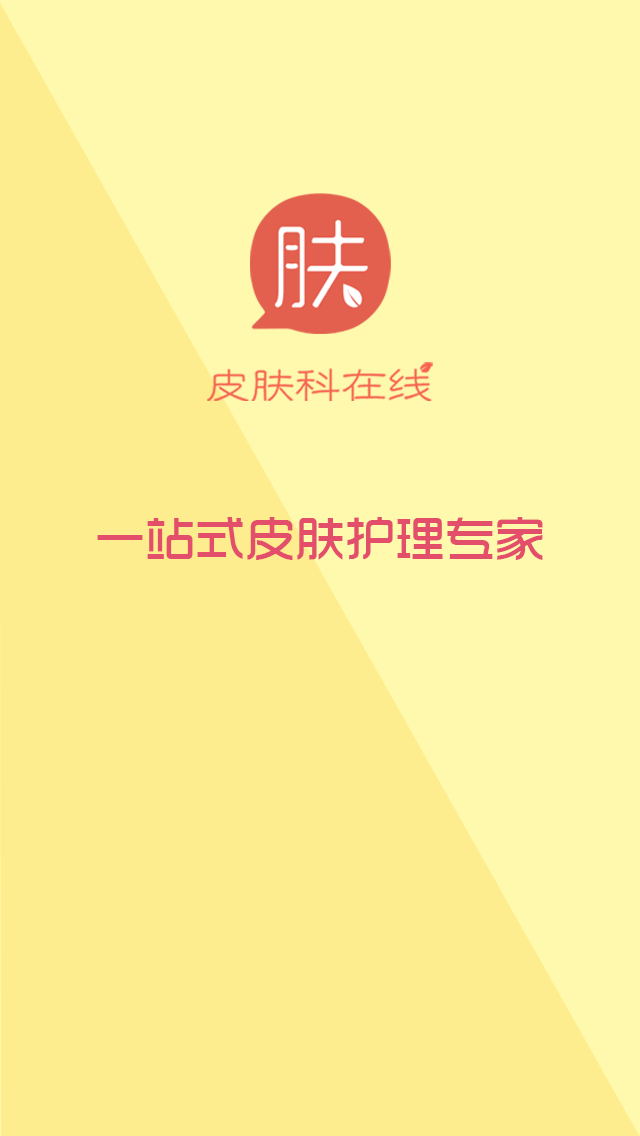
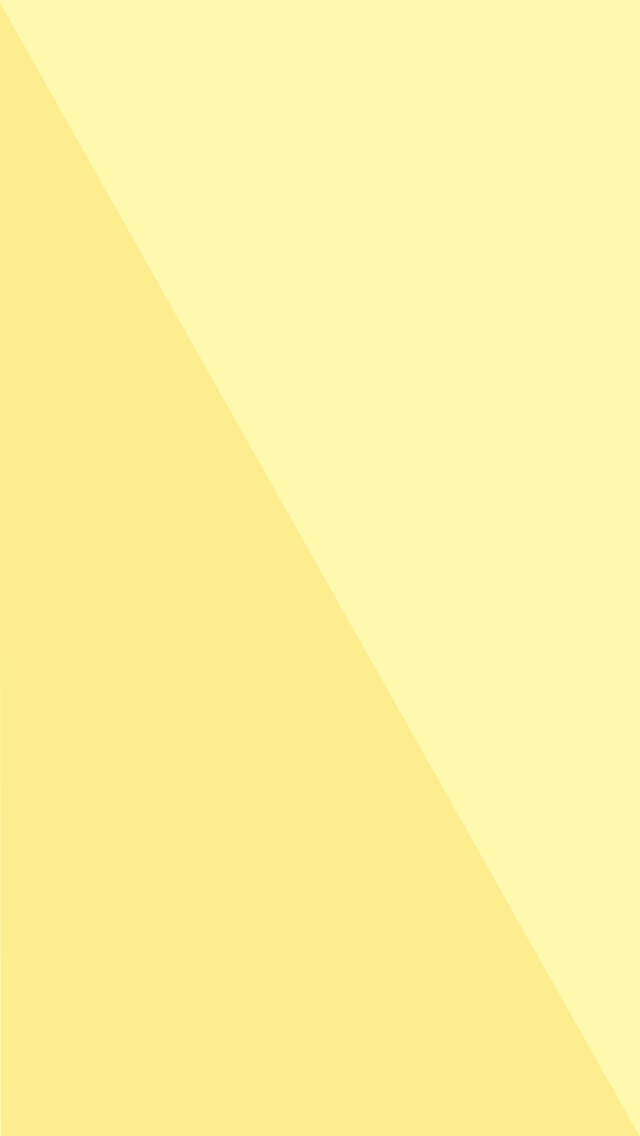
Add five page and layout

Changed region(s): [[0.3125, 0.154, 0.6875, 0.3697], [0.1562, 0.4313, 0.8438, 0.493]]

diff --git a/js/index.js b/js/index.js
@@ -10,11 +10,35 @@
 
         ANIMATION_END_EVENT = "oanimationend animationend webkitAnimationEnd";
 
-    var currentIndex = 0;
+    var CONFIG_INDEX = 'index',
+        CONFIG_LOCATION = 'location';
+
+    var currentIndex = 0,
+        isAnimating = false;
+
     var initPage = function (config) {
-        var self = $('#page-' + config.index);
+        var pageId = '#page-' + config[CONFIG_INDEX];
+        var self = $(pageId);
 
         self.config = config || {};
+
+        // compute logo's location
+        var logoCount = self.config[CONFIG_LOCATION].length / 3, i, logo;
+        var rawRatio, wRatio, topRatio;
+        for (i = 0; i < logoCount; i++) {
+            logo = $(pageId + '-logo' + i);
+
+            rawRatio = self.config[CONFIG_LOCATION][3 * i]; // 图片 w/h
+            wRatio = self.config[CONFIG_LOCATION][3 * i + 1]; // 图片 w/W
+            topRatio = self.config[CONFIG_LOCATION][3 * i + 2]; // 图片 top/H
+            logo.css({
+                width: wRatio * 100 + '%',
+                height: WIDTH / HEIGHT * wRatio / rawRatio * 100 + '%',
+                top: topRatio * 100 + '%',
+                left: (1 - wRatio) / 2 * 100 + '%'
+            });
+        }
+
         return self;
     }
 
@@ -27,55 +51,82 @@
             height: HEIGHT
         });
 
-        for (var i = 0; i < 3; ++i) {
-            initPage({
-                'index': i
-            });
+        var configs = [
+            {
+                index: 0,
+                location: [1.08, 0.36, 0.18, 10.372, 0.73, 0.52]
+            },
+            {
+                index: 1,
+                location: []
+            },
+            {
+                index: 2,
+                location: []
+            },
+            {
+                index: 3,
+                location: []
+            },
+            {
+                index: 4,
+                location: []
+            }
+        ];
+
+        for (var i = 0; i < configs.length; ++i) {
+            initPage(configs[i]);
         }
 
         $('#page-' + currentIndex).addClass('current');
 
         window.pageUp = function () {
-            if (currentIndex >= pageLengh - 1) {
+            if (currentIndex >= pageLengh - 1 || isAnimating) {
                 return;
             }
 
             var currentPage = $('#page-' + currentIndex);
             var nextPage = $('#page-' + (currentIndex + 1));
 
+            isAnimating = true;
             currentPage.addClass('pt-page-scaleOutUp');
+            currentPage.removeClass('top');
             currentPage.bind(ANIMATION_END_EVENT, function () {
                 currentPage.removeClass('current pt-page-scaleOutUp');
                 currentPage.unbind(ANIMATION_END_EVENT);
             });
 
-            nextPage.addClass('current pt-page-moveInDown');
+            nextPage.addClass('current pt-page-moveInDown top');
             nextPage.bind(ANIMATION_END_EVENT, function () {
                 nextPage.removeClass('pt-page-moveInDown');
                 nextPage.unbind(ANIMATION_END_EVENT);
+                isAnimating = false;
             });
 
             currentIndex++;
         }
 
         window.pageDown = function () {
-            if (currentIndex <= 0) {
+            if (currentIndex <= 0 || isAnimating) {
                 return;
             }
 
             var currentPage = $('#page-' + currentIndex);
             var prevPage = $('#page-' + (currentIndex - 1));
 
+            isAnimating = true;
             currentPage.addClass('pt-page-scaleOutUp');
+            currentPage.removeClass('top');
             currentPage.bind(ANIMATION_END_EVENT, function () {
                 currentPage.removeClass('current pt-page-scaleOutUp');
                 currentPage.unbind(ANIMATION_END_EVENT);
             });
 
-            prevPage.addClass('current pt-page-moveInUp');
+            prevPage.addClass('current pt-page-moveInUp top');
             prevPage.bind(ANIMATION_END_EVENT, function () {
                 prevPage.removeClass('pt-page-moveInUp');
                 prevPage.unbind(ANIMATION_END_EVENT);
+                isAnimating = false;
             });
 
 

diff --git a/index.html b/index.html
@@ -2,7 +2,7 @@
 <html>
 <head lang="en">
     <meta charset="UTF-8">
-    <meta name="viewport" content="width=device-width,user-scalable=no"/>
+    <!--<meta name="viewport" content="width=device-width,user-scalable=no"/>-->
     <title>Scroller</title>
     <link href="css/reset.css" rel="stylesheet" type="text/css">
     <link href="css/index.css" rel="stylesheet" type="text/css">
@@ -11,30 +11,26 @@
     <script type="text/javascript" src="js/index.js"></script>
     <script type="text/javascript" src="js/jquery-gesture.js"></script>
 </head>
-<style type="text/css">
-    #page-0 {
-        background: url("images/page0-bg.png") no-repeat center center;
-        -webkit-background-size: 100%;
-        background-size: 100%;
+<style>
+    img {
+        display: block;
+        margin: 0 auto;
+        position: absolute;
     }
 
-    #page-1 {
-        background: url("images/page1-bg.png") no-repeat center center;
-        -webkit-background-size: 100%;
-        background-size: 100%;
-    }
-
-    #page-2 {
-        background: url("images/page2-bg.png") no-repeat center center;
-        -webkit-background-size: 100%;
-        background-size: 100%;
-    }
+    /*#page-0-logo0 {*/
+        /*-webkit-animation: zoomIn 1s ease 0.8s 1 both;*/
+        /*-moz-animation: zoomIn 1s ease 0.8s 1 both;*/
+        /*animation: zoomIn 1s ease 0.8s 1 both;*/
+    /*}*/
 </style>
-<body>
 
+<body>
 <div id="container">
     <div id="page-0" class="page">
         <h1>Page 0</h1>
+        <img id="page-0-logo0" src="images/page0-logo1.png" class="pt-page-fadeInUp">
+        <img id="page-0-logo1" src="images/page0-logo2.png">
     </div>
 
     <div id="page-1" class="page">
@@ -44,7 +40,14 @@
     <div id="page-2" class="page">
         <h1>Page 2</h1>
     </div>
-</div>
 
+    <div id="page-3" class="page">
+        <h1>Page 3</h1>
+    </div>
+
+    <div id="page-4" class="page">
+        <h1>Page 4</h1>
+    </div>
+</div>
 </body>
 </html>

diff --git a/css/index.css b/css/index.css
@@ -2,7 +2,7 @@ body {
     overflow: hidden;
 }
 
-＃container {
+.container {
     position: relative;
 }
 
@@ -15,6 +15,41 @@ body {
     left: 0;
 }
 
+.top {
+    z-index: 999;
+}
+
 .current {
     display: block;
+}
+
+#page-0 {
+    background: url("../images/page0-bg.png") no-repeat center center;
+    /*������background-size:100%��background-size:coverЧ����һ���*/
+    -webkit-background-size: 100%;
+    background-size: 100%;
+}
+
+#page-1 {
+    background: url("../images/page1-bg.png") no-repeat center center;
+    -webkit-background-size: 100%;
+    background-size: 100%;
+}
+
+#page-2 {
+    background: url("../images/page2-bg.png") no-repeat center center;
+    -webkit-background-size: 100%;
+    background-size: 100%;
+}
+
+#page-3 {
+    background: url("../images/page3-bg.png") no-repeat center center;
+    -webkit-background-size: 100%;
+    background-size: 100%;
+}
+
+#page-4 {
+    background: url("../images/page4-bg.png") no-repeat center center;
+    -webkit-background-size: 100%;
+    background-size: 100%;
 }

diff --git a/js/jquery-gesture.js b/js/jquery-gesture.js
@@ -2,7 +2,7 @@
  * Created by qiumei on 2015/11/16.
  */
 (function () {
-    var supportTouch = false;//$.support.touch,
+    var supportTouch = true;//$.support.touch,
     scrollEvent = "touchmove scroll",
         touchStartEvent = supportTouch ? "touchstart" : "mousedown",
         touchStopEvent = supportTouch ? "touchend" : "mouseup",
